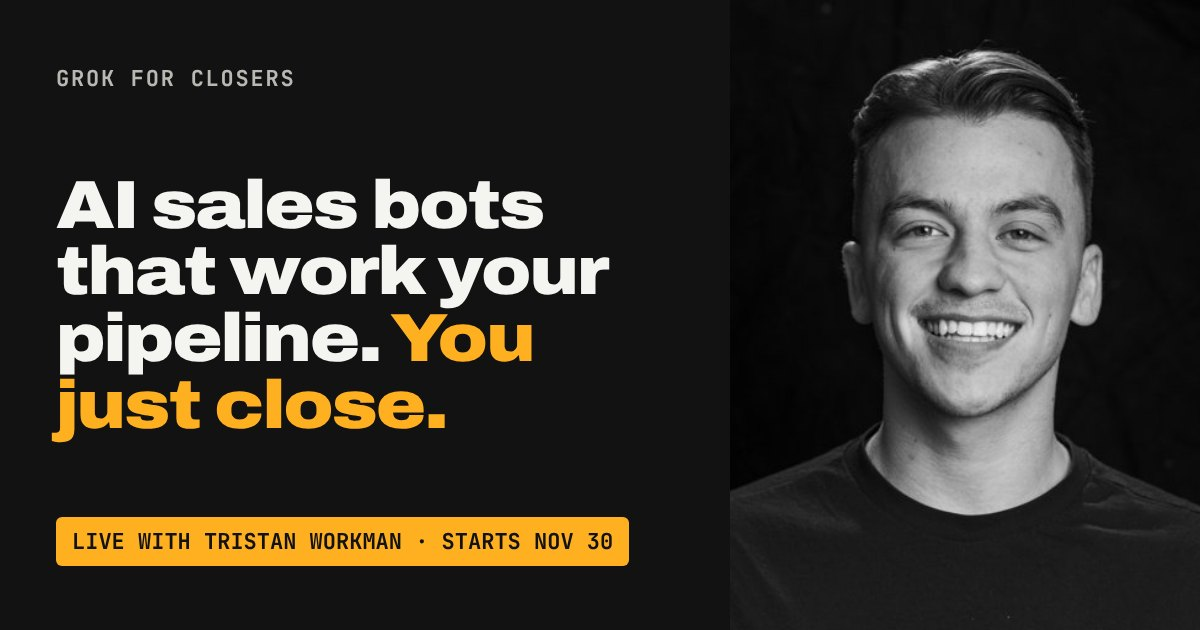
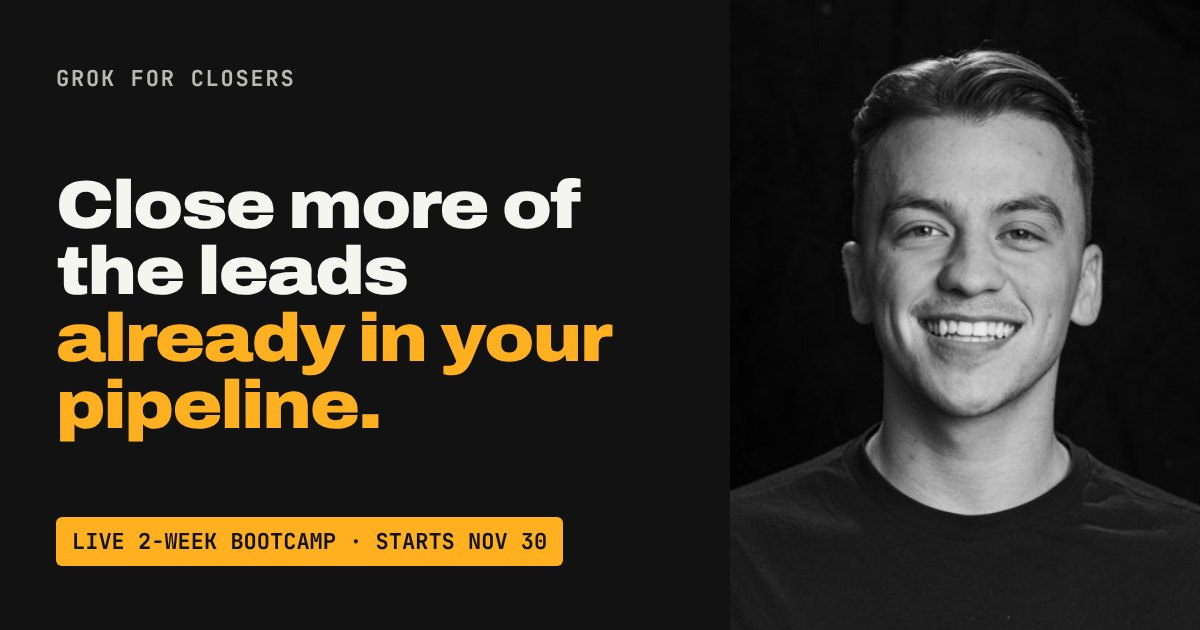
v3: results-first hero, value stack, bonuses, calculator, countdown, scroll-aware sticky CTA
Claude-Session: https://claude.ai/code/session_01B6SyheZNpz3uKChNs5tpkw

Changed region(s): [[0.0308, 0.2714, 0.5242, 0.7238], [0.0925, 0.8143, 0.5242, 0.9048], [0.0308, 0.6937, 0.0617, 0.7238]]

diff --git a/index.html b/index.html
@@ -3,11 +3,11 @@
 <head>
 <meta charset="utf-8">
 <title>Grok for Closers</title>
-<meta name="description" content="Grok for Closers: a live 2-week bootcamp with Tristan Workman. Get AI sales bots that read your calls and prep your follow-ups. You just click send.">
+<meta name="description" content="Close more of the leads already in your pipeline. A live 2-week bootcamp with Tristan Workman: set up AI bots that read your calls and draft every follow-up.">
 <meta property="og:type" content="website">
 <meta property="og:url" content="https://grokforclosers.com/">
-<meta property="og:title" content="Grok for Closers: AI sales bots for high-ticket closers">
-<meta property="og:description" content="A live 2-week bootcamp with Tristan Workman. Bots read your calls and draft your follow-ups. Starts Nov 30.">
+<meta property="og:title" content="Grok for Closers: close more of the leads already in your pipeline">
+<meta property="og:description" content="In 2 weeks, live with Tristan Workman, set up AI bots that read your calls and draft every follow-up. Pays for itself in 90 days or your money back.">
 <meta property="og:image" content="https://grokforclosers.com/og.jpg">
 <meta property="og:image:width" content="1200">
 <meta property="og:image:height" content="630">
@@ -27,8 +27,10 @@ a{color:#121212}a:hover{color:#000}
 summary{cursor:pointer;list-style:none}
 summary::-webkit-details-marker{display:none}
 details[open] .faq-plus{transform:rotate(45deg)}
-.mcta{display:none}
-@media (max-width: 720px){.mcta{display:flex}body{padding-bottom:84px}}
+.mcta{display:flex;position:fixed;left:12px;right:12px;bottom:12px;max-width:560px;margin:0 auto;z-index:50;transform:translateY(160%);transition:transform .25s ease}
+.mcta.show{transform:none}
+@media (max-width: 720px){body{padding-bottom:84px}}
+.calc input,.calc select{font:inherit;font-size:18px;padding:12px;border:1px solid #C9C9C3;border-radius:8px;background:#fff;width:100%;box-sizing:border-box;min-height:48px}
 </style>
 
 <div style="width: 100%; background: #F4F4F1; color: #121212; font-family: 'Public Sans', sans-serif; font-size: 18px; line-height: 1.6">
@@ -38,46 +40,42 @@ details[open] .faq-plus{transform:rotate(45deg)}
 <div style="max-width: 1180px; margin: 0 auto; padding: 14px 24px; display: flex; flex-wrap: wrap; align-items: center; justify-content: space-between; gap: 12px">
 <div style="font-family: 'Archivo', sans-serif; font-weight: 900; font-stretch: 115%; font-size: 20px; letter-spacing: -0.01em">GROK FOR CLOSERS</div>
 <div style="display: flex; flex-wrap: wrap; align-items: center; gap: 18px">
-<span style="font-family: 'JetBrains Mono', monospace; font-size: 13px; color: #B9B9B4">Starts Mon, Nov 30 · Only 25 early-bird spots</span>
-<a href="https://commas.com/checkout/4jyNJgCdUy43nU" style="background: #FFB020; color: #121212; text-decoration: none; font-weight: 700; font-size: 15px; padding: 12px 18px; border-radius: 6px; min-height: 44px; box-sizing: border-box; display: inline-flex; align-items: center">Enroll: $900 with EARLYBIRD</a>
+<span style="font-family: 'JetBrains Mono', monospace; font-size: 13px; color: #B9B9B4"><span class="cd">Starts Mon, Nov 30</span> · 25 early-bird spots</span>
+<a href="https://commas.com/checkout/4jyNJgCdUy43nU" style="background: #FFB020; color: #121212; text-decoration: none; font-weight: 700; font-size: 15px; padding: 12px 18px; border-radius: 6px; min-height: 44px; box-sizing: border-box; display: inline-flex; align-items: center">Save my spot: $900</a>
 </div>
 </div>
 </header>
 
 <!-- HERO -->
 <section style="background: #121212; color: #F4F4F1">
-<div style="max-width: 1180px; margin: 0 auto; padding: 80px 24px 96px; display: flex; flex-direction: column; align-items: center; text-align: center; gap: 28px">
-<div style="display: flex; align-items: center; gap: 12px; padding: 6px 16px 6px 6px; border: 1px solid #34342F; border-radius: 999px"><img src="tristan.jpg" alt="Tristan Workman" style="width: 36px; height: 36px; border-radius: 50%; object-fit: cover"><span style="font-family: 'JetBrains Mono', monospace; font-size: 13px; letter-spacing: 0.08em; text-transform: uppercase; color: #B9B9B4">Live with Tristan Workman · Starts Nov 30</span></div>
-<h1 style="margin: 0; max-width: 1000px; font-family: 'Archivo', sans-serif; font-weight: 900; font-stretch: 112%; font-size: clamp(40px, 6vw, 80px); line-height: 0.98; letter-spacing: -0.025em">Get AI sales bots that work your pipeline for you. <span style="color: #FFB020">You just close.</span></h1>
-<p style="margin: 0; max-width: 760px; font-size: 20px; color: #D2D2CD">We give you our AI bots, built from how top closers work. They read your calls and prep your follow-ups. You just click send.</p>
-
-<!-- INSTRUCTOR PHOTO -->
-<div style="width: 100%; max-width: 960px; margin-top: 12px">
-<div style="position: relative; width: 100%; background: #0B0B0B; border: 1px solid #34342F; border-radius: 12px; overflow: hidden; display: flex; flex-wrap: wrap-reverse; align-items: stretch; text-align: left">
-<div style="flex: 1 1 300px; min-width: 0; padding: clamp(24px, 4vw, 48px); display: flex; flex-direction: column; justify-content: center; gap: 16px">
-<div style="font-family: 'JetBrains Mono', monospace; font-size: 13px; letter-spacing: 0.08em; text-transform: uppercase; color: #A3A39E">Your instructor, live on every session</div>
-<div style="font-family: 'Archivo', sans-serif; font-weight: 900; font-size: clamp(22px, 3vw, 36px); line-height: 1.1">2,000+ calls. $10M collected one-on-one. Live on every session.</div>
-<div style="font-size: 15px; color: #D2D2CD">Tristan Workman</div>
+<div style="max-width: 1180px; margin: 0 auto; padding: 64px 24px 80px; display: grid; grid-template-columns: repeat(auto-fit, minmax(min(460px, 100%), 1fr)); gap: 48px; align-items: center">
+<div style="display: flex; flex-direction: column; gap: 24px; min-width: 0">
+<div style="align-self: flex-start; font-family: 'JetBrains Mono', monospace; font-size: 13px; letter-spacing: 0.08em; text-transform: uppercase; color: #B9B9B4; border: 1px solid #34342F; border-radius: 999px; padding: 8px 14px">Live 2-week bootcamp · <span class="cd">Starts Nov 30</span></div>
+<h1 style="margin: 0; font-family: 'Archivo', sans-serif; font-weight: 900; font-stretch: 112%; font-size: clamp(40px, 5.6vw, 72px); line-height: 0.98; letter-spacing: -0.025em">Close more of the leads <span style="color: #FFB020">already in your pipeline.</span></h1>
+<p style="margin: 0; font-size: 20px; color: #D2D2CD">In 2 weeks, live with Tristan, you set up AI bots that read your calls and draft every follow-up. You click send. If it hasn't paid for itself in 90 days, you get your money back.</p>
+<div style="display: flex; flex-direction: column; gap: 12px; align-items: flex-start">
+<a id="hero-cta" href="https://commas.com/checkout/4jyNJgCdUy43nU" style="background: #FFB020; color: #121212; text-decoration: none; font-weight: 800; font-size: 19px; padding: 20px 30px; border-radius: 8px; display: inline-flex; align-items: center; gap: 12px">Save my spot for $900 <span style="font-weight: 500; text-decoration: line-through; opacity: 0.7">$1,800</span></a>
+<div style="font-size: 14px; color: #B9B9B4">Code <strong style="font-family: 'JetBrains Mono', monospace; color: #F4F4F1">EARLYBIRD</strong> · 25 spots · Starts Nov 30</div>
+<div style="display: flex; align-items: center; gap: 8px; font-size: 14px; color: #D2D2CD"><svg width="18" height="18" viewBox="0 0 24 24" fill="none" stroke="#F4F4F1" stroke-width="2" stroke-linecap="round" stroke-linejoin="round" aria-hidden="true" style="flex: none"><path d="M12 3l8 3v6c0 5-3.5 8-8 9-4.5-1-8-4-8-9V6z"></path><path d="M8.5 12l2.5 2.5L16 9.5"></path></svg>Pays for itself in 90 days or your money back.</div>
 </div>
-<img src="tristan.jpg" alt="Tristan Workman" style="flex: 1 1 300px; min-width: 0; width: 100%; aspect-ratio: 4 / 3; object-fit: cover; object-position: center 30%; display: block">
+<a href="#proof" style="display: flex; flex-wrap: wrap; gap: 10px; text-decoration: none; margin-top: 4px">
+<div style="flex: 1 1 200px; border: 1px solid #2E2E2B; border-radius: 10px; padding: 12px 14px; font-size: 14px; line-height: 1.4; color: #D2D2CD"><span style="color: #F4F4F1; font-weight: 600">"I closed for $25k. Zero objections."</span><br><span style="color: #8A8A84">M.D., bootcamp grad</span></div>
+<div style="flex: 1 1 200px; border: 1px solid #2E2E2B; border-radius: 10px; padding: 12px 14px; font-size: 14px; line-height: 1.4; color: #D2D2CD"><span style="color: #F4F4F1; font-weight: 600">2 deals from follow-up in one day</span><br><span style="color: #8A8A84">Miriam</span></div>
+<div style="flex: 1 1 200px; border: 1px solid #2E2E2B; border-radius: 10px; padding: 12px 14px; font-size: 14px; line-height: 1.4; color: #D2D2CD"><span style="color: #F4F4F1; font-weight: 600">"Boom! Thank you Kevin."</span><br><span style="color: #8A8A84">A student, after his bot booked the call</span></div>
+</a>
 </div>
+<div style="min-width: 0; background: #0B0B0B; border: 1px solid #34342F; border-radius: 16px; overflow: hidden">
+<img src="tristan.jpg" alt="Tristan Workman" style="width: 100%; aspect-ratio: 1 / 1; object-fit: cover; object-position: center 30%; display: block">
+<div style="padding: 20px 24px 24px">
+<div style="font-family: 'Archivo', sans-serif; font-weight: 800; font-size: 20px; line-height: 1.25">"I'm a closer who got tired of losing my evenings to admin."</div>
+<div style="margin-top: 10px; font-size: 14px; color: #A3A39E">Tristan Workman · 2,000+ calls · $10M collected 1:1 · Live on every session</div>
 </div>
-
-<div style="display: flex; flex-direction: column; align-items: center; gap: 10px; margin-top: 8px">
-<a href="https://commas.com/checkout/4jyNJgCdUy43nU" style="background: #FFB020; color: #121212; text-decoration: none; font-weight: 800; font-size: 19px; padding: 20px 34px; border-radius: 8px; display: inline-flex; align-items: center; gap: 12px">Enroll now for $900 <span style="font-weight: 500; text-decoration: line-through; opacity: 0.7">$1,800</span></a>
-<div style="font-size: 14px; color: #B9B9B4">Use code <strong style="font-family: 'JetBrains Mono', monospace; color: #F4F4F1">EARLYBIRD</strong> at checkout · Only 25 spots · Pays-for-itself guarantee</div>
-</div>
-
-<div style="width: 100%; max-width: 960px; margin-top: 36px; padding-top: 28px; border-top: 1px solid #2E2E2B; display: grid; grid-template-columns: repeat(auto-fit, minmax(180px, 1fr)); gap: 20px">
-<div><div style="font-family: 'Archivo', sans-serif; font-weight: 900; font-size: 36px; line-height: 1">2,000+</div><div style="font-size: 14px; color: #B9B9B4">sales calls taken</div></div>
-<div><div style="font-family: 'Archivo', sans-serif; font-weight: 900; font-size: 36px; line-height: 1">$10M</div><div style="font-size: 14px; color: #B9B9B4">collected one-on-one</div></div>
-<div><div style="font-family: 'Archivo', sans-serif; font-weight: 900; font-size: 36px; line-height: 1">750+</div><div style="font-size: 14px; color: #B9B9B4">enrollments closed</div></div>
 </div>
 </div>
 </section>
 
 <!-- TESTIMONIALS -->
-<section style="max-width: 1180px; margin: 0 auto; padding: 88px 24px 40px">
+<section id="proof" style="max-width: 1180px; margin: 0 auto; padding: 88px 24px 40px">
 <div style="font-family: 'JetBrains Mono', monospace; font-size: 13px; letter-spacing: 0.08em; text-transform: uppercase; color: #5A5A55; margin-bottom: 14px">Student results</div>
 <h2 style="margin: 0 0 36px; font-family: 'Archivo', sans-serif; font-weight: 900; font-stretch: 108%; font-size: clamp(30px, 4vw, 48px); line-height: 1.05; letter-spacing: -0.02em; max-width: 760px">They stopped doing the busywork. The bots took it.</h2>
 <div style="font-family: 'JetBrains Mono', monospace; font-size: 13px; letter-spacing: 0.08em; text-transform: uppercase; color: #5A5A55; margin-bottom: 16px">Real screenshots from Tristan's students</div>
@@ -275,15 +273,19 @@ details[open] .faq-plus{transform:rotate(45deg)}
 <section style="background: #FFFFFF; border-top: 1px solid #E2E2DC; border-bottom: 1px solid #E2E2DC">
 <div style="max-width: 1180px; margin: 0 auto; padding: 96px 24px; display: flex; flex-wrap: wrap; gap: 64px">
 <div style="flex: 1 1 480px; min-width: 0">
-<div style="font-family: 'JetBrains Mono', monospace; font-size: 13px; letter-spacing: 0.08em; text-transform: uppercase; color: #5A5A55; margin-bottom: 14px">Everything included</div>
-<h2 style="margin: 0 0 28px; font-family: 'Archivo', sans-serif; font-weight: 900; font-stretch: 108%; font-size: clamp(30px, 3.6vw, 44px); line-height: 1.05; letter-spacing: -0.02em">What you get</h2>
-<div style="display: flex; flex-direction: column">
-<div style="display: flex; gap: 16px; padding: 18px 0; border-top: 1px solid #E2E2DC"><svg width="22" height="22" viewBox="0 0 24 24" fill="none" stroke="#121212" stroke-width="2.5" stroke-linecap="round" stroke-linejoin="round" aria-hidden="true" style="flex: none; margin-top: 3px"><path d="M5 12l5 5L20 7"></path></svg><div><strong>Our AI sales bots</strong><br><span style="color: #5A5A55">The Closer Coach bot and the Call Review bot. They read your calls and draft every follow-up. Yours to keep.</span></div></div>
-<div style="display: flex; gap: 16px; padding: 18px 0; border-top: 1px solid #E2E2DC"><svg width="22" height="22" viewBox="0 0 24 24" fill="none" stroke="#121212" stroke-width="2.5" stroke-linecap="round" stroke-linejoin="round" aria-hidden="true" style="flex: none; margin-top: 3px"><path d="M5 12l5 5L20 7"></path></svg><div><strong>Every workflow, built in</strong><br><span style="color: #5A5A55">End-of-month push, show rate, no-show recovery, same-day follow-up, two-call nurture, CRM next action, weekly nurture, call review and the Sales Dojo.</span></div></div>
-<div style="display: flex; gap: 16px; padding: 18px 0; border-top: 1px solid #E2E2DC"><svg width="22" height="22" viewBox="0 0 24 24" fill="none" stroke="#121212" stroke-width="2.5" stroke-linecap="round" stroke-linejoin="round" aria-hidden="true" style="flex: none; margin-top: 3px"><path d="M5 12l5 5L20 7"></path></svg><div><strong>6 live sessions + office hours</strong><br><span style="color: #5A5A55">Mon, Wed, Fri. Office hours Tue and Thu.</span></div></div>
-<div style="display: flex; gap: 16px; padding: 18px 0; border-top: 1px solid #E2E2DC"><svg width="22" height="22" viewBox="0 0 24 24" fill="none" stroke="#121212" stroke-width="2.5" stroke-linecap="round" stroke-linejoin="round" aria-hidden="true" style="flex: none; margin-top: 3px"><path d="M5 12l5 5L20 7"></path></svg><div><strong>Recordings and lifetime access</strong><br><span style="color: #5A5A55">Miss one? Watch it back.</span></div></div>
-<div style="display: flex; gap: 16px; padding: 18px 0; border-top: 1px solid #E2E2DC; border-bottom: 1px solid #E2E2DC"><svg width="22" height="22" viewBox="0 0 24 24" fill="none" stroke="#121212" stroke-width="2.5" stroke-linecap="round" stroke-linejoin="round" aria-hidden="true" style="flex: none; margin-top: 3px"><path d="M5 12l5 5L20 7"></path></svg><div><strong>A private WhatsApp group</strong><br><span style="color: #5A5A55">Share wins, get unstuck.</span></div></div>
+<div style="font-family: 'JetBrains Mono', monospace; font-size: 13px; letter-spacing: 0.08em; text-transform: uppercase; color: #5A5A55; margin-bottom: 14px">Everything you get for $900</div>
+<h2 style="margin: 0 0 24px; font-family: 'Archivo', sans-serif; font-weight: 900; font-stretch: 108%; font-size: clamp(30px, 3.6vw, 44px); line-height: 1.05; letter-spacing: -0.02em">What you get</h2>
+<div style="display: flex; flex-direction: column; border-bottom: 1px solid #E2E2DC">
+<div style="display: flex; gap: 14px; padding: 16px 0; border-top: 1px solid #E2E2DC"><svg width="22" height="22" viewBox="0 0 24 24" fill="none" stroke="#121212" stroke-width="2.5" stroke-linecap="round" stroke-linejoin="round" aria-hidden="true" style="flex: none; margin-top: 3px"><path d="M5 12l5 5L20 7"></path></svg><div><strong>6 live sessions with Tristan</strong><br><span style="color: #5A5A55">Each one ends with something you send that day. Your first email goes out in session one.</span></div></div>
+<div style="display: flex; gap: 14px; padding: 16px 0; border-top: 1px solid #E2E2DC"><svg width="22" height="22" viewBox="0 0 24 24" fill="none" stroke="#121212" stroke-width="2.5" stroke-linecap="round" stroke-linejoin="round" aria-hidden="true" style="flex: none; margin-top: 3px"><path d="M5 12l5 5L20 7"></path></svg><div><strong>Office hours, Tuesday and Thursday</strong><br><span style="color: #5A5A55">Bring a stuck deal or a bot that isn't working.</span></div></div>
+<div style="display: flex; gap: 14px; padding: 16px 0; border-top: 1px solid #E2E2DC"><svg width="22" height="22" viewBox="0 0 24 24" fill="none" stroke="#121212" stroke-width="2.5" stroke-linecap="round" stroke-linejoin="round" aria-hidden="true" style="flex: none; margin-top: 3px"><path d="M5 12l5 5L20 7"></path></svg><div><strong>The Closer Coach bot</strong><br><span style="color: #5A5A55">Reads your calls and drafts follow-ups, confirmations and nurture emails. Yours to keep.</span></div></div>
+<div style="display: flex; gap: 14px; padding: 16px 0; border-top: 1px solid #E2E2DC"><svg width="22" height="22" viewBox="0 0 24 24" fill="none" stroke="#121212" stroke-width="2.5" stroke-linecap="round" stroke-linejoin="round" aria-hidden="true" style="flex: none; margin-top: 3px"><path d="M5 12l5 5L20 7"></path></svg><div><strong>The Call Review bot and the Sales Dojo</strong><br><span style="color: #5A5A55">Scores your calls, names one fix, and runs voice role play on it.</span></div></div>
+<div style="display: flex; gap: 14px; padding: 16px 0; border-top: 1px solid #E2E2DC"><svg width="22" height="22" viewBox="0 0 24 24" fill="none" stroke="#121212" stroke-width="2.5" stroke-linecap="round" stroke-linejoin="round" aria-hidden="true" style="flex: none; margin-top: 3px"><path d="M5 12l5 5L20 7"></path></svg><div><strong>Recordings and a private WhatsApp group</strong><br><span style="color: #5A5A55">Watch any session again. Get answers between sessions.</span></div></div>
+<div style="display: flex; gap: 14px; padding: 16px 0; border-top: 1px solid #E2E2DC"><span style="flex: none; font-family: 'JetBrains Mono', monospace; font-weight: 700; font-size: 11px; background: #FFB020; color: #121212; padding: 3px 7px; border-radius: 4px; height: fit-content; margin-top: 3px">BONUS</span><div><strong>The “which bot when” cheat sheet</strong><br><span style="color: #5A5A55">The right bot for every moment in your pipeline, on one page.</span></div></div>
+<div style="display: flex; gap: 14px; padding: 16px 0; border-top: 1px solid #E2E2DC"><span style="flex: none; font-family: 'JetBrains Mono', monospace; font-weight: 700; font-size: 11px; background: #FFB020; color: #121212; padding: 3px 7px; border-radius: 4px; height: fit-content; margin-top: 3px">BONUS</span><div><strong>Tristan's end-of-month email template</strong><br><span style="color: #5A5A55">The email he sends in the last week of every month.</span></div></div>
+<div style="display: flex; gap: 14px; padding: 16px 0; border-top: 1px solid #E2E2DC"><span style="flex: none; font-family: 'JetBrains Mono', monospace; font-weight: 700; font-size: 11px; background: #FFB020; color: #121212; padding: 3px 7px; border-radius: 4px; height: fit-content; margin-top: 3px">BONUS</span><div><strong>The objection rapid-fire drill</strong><br><span style="color: #5A5A55">Fast reps on the objections you hear most, before your next call.</span></div></div>
 </div>
+<div style="margin-top: 24px; background: #121212; color: #F4F4F1; border-radius: 12px; padding: 20px 24px; font-size: 16px">Tristan's 1:1 coaching runs <strong>$8,000</strong>. This is his system, live, for <strong style="color: #FFB020">$900</strong>.</div>
 </div>
 <div style="flex: 1 1 400px; min-width: 0; display: flex; flex-direction: column; gap: 24px">
 <img src="tristan.jpg" alt="Tristan Workman" style="width: 100%; aspect-ratio: 4 / 3; object-fit: cover; object-position: center 30%; border-radius: 12px; display: block">
@@ -299,8 +301,17 @@ details[open] .faq-plus{transform:rotate(45deg)}
 <div style="display: flex; flex-wrap: wrap; gap: 48px; align-items: center">
 <div style="flex: 1 1 420px; min-width: 0">
 <div style="font-family: 'JetBrains Mono', monospace; font-size: 13px; letter-spacing: 0.08em; text-transform: uppercase; color: #5A5A55; margin-bottom: 14px">Price</div>
-<h2 style="margin: 0 0 20px; font-family: 'Archivo', sans-serif; font-weight: 900; font-stretch: 108%; font-size: clamp(30px, 4vw, 48px); line-height: 1.05; letter-spacing: -0.02em">One extra deal pays for this several times over.</h2>
-<p style="margin: 0; color: #3A3A36">If your average commission is over $900, one extra close covers the bootcamp.</p>
+<h2 style="margin: 0 0 20px; font-family: 'Archivo', sans-serif; font-weight: 900; font-stretch: 108%; font-size: clamp(30px, 4vw, 48px); line-height: 1.05; letter-spacing: -0.02em">What one extra close is worth to you.</h2>
+<p style="margin: 0 0 24px; color: #3A3A36">Put in your average commission and see when the bootcamp pays for itself.</p>
+<div class="calc" style="background: #FFFFFF; border: 1px solid #E2E2DC; border-radius: 12px; padding: 24px; display: grid; grid-template-columns: repeat(auto-fit, minmax(min(180px, 100%), 1fr)); gap: 16px">
+<label style="display: flex; flex-direction: column; gap: 6px; font-size: 14px; font-weight: 600">Your average commission ($)<input id="c-comm" type="number" min="0" step="50" value="1500" inputmode="numeric"></label>
+<label style="display: flex; flex-direction: column; gap: 6px; font-size: 14px; font-weight: 600">Extra closes a month<select id="c-n"><option value="1" selected>1</option><option value="2">2</option><option value="3">3</option><option value="4">4</option></select></label>
+<div style="grid-column: 1 / -1; border-top: 1px solid #E2E2DC; padding-top: 16px">
+<div style="font-size: 14px; color: #5A5A55">Extra commission in 90 days</div>
+<div id="c-out" style="font-family: 'Archivo', sans-serif; font-weight: 900; font-size: 44px; line-height: 1.1">$4,500</div>
+<div id="c-pay" style="font-size: 15px; color: #3A3A36">The bootcamp pays for itself on your first extra close.</div>
+</div>
+</div>
 </div>
 <div style="flex: 1 1 420px; min-width: 0; background: #121212; color: #F4F4F1; border-radius: 16px; padding: clamp(24px, 5vw, 40px)">
 <div style="display: inline-block; background: #FFB020; color: #121212; font-family: 'JetBrains Mono', monospace; font-weight: 700; font-size: 13px; padding: 5px 10px; border-radius: 4px">EARLY BIRD · ONLY 25 SPOTS</div>
@@ -309,14 +320,14 @@ details[open] .faq-plus{transform:rotate(45deg)}
 <span style="font-size: 24px; color: #A3A39E; text-decoration: line-through">$1,800</span>
 </div>
 <div style="margin: 14px 0 6px; display: flex; flex-wrap: wrap; align-items: center; gap: 10px; font-size: 15px; color: #D2D2CD">Enter code <span style="font-family: 'JetBrains Mono', monospace; font-weight: 700; font-size: 16px; color: #121212; background: #F4F4F1; padding: 4px 10px; border-radius: 4px; letter-spacing: 0.06em">EARLYBIRD</span> at checkout for 50% off.</div>
-<div style="color: #B9B9B4; font-size: 15px; margin-bottom: 28px">The code works for the first 25 buyers. After that, it's $1,800. Starts Monday, November 30.</div>
+<div style="color: #B9B9B4; font-size: 15px; margin-bottom: 28px">The code works for the first 25 buyers. After that, it's $1,800. <span class="cd">Starts Monday, November 30</span>.</div>
 <div style="display: flex; flex-direction: column; gap: 10px; font-size: 16px; margin-bottom: 32px">
-<div>✓&nbsp; Our AI sales bots, every workflow built in</div>
 <div>✓&nbsp; 6 live sessions + office hours</div>
-<div>✓&nbsp; Recordings, lifetime access, community</div>
+<div>✓&nbsp; Closer Coach bot, Call Review bot, Sales Dojo</div>
+<div>✓&nbsp; 3 bonuses, recordings, WhatsApp group</div>
 
 </div>
-<a href="https://commas.com/checkout/4jyNJgCdUy43nU" style="display: flex; justify-content: center; background: #FFB020; color: #121212; text-decoration: none; font-weight: 800; font-size: 19px; padding: 20px; border-radius: 8px">Enroll now</a>
+<a href="https://commas.com/checkout/4jyNJgCdUy43nU" style="display: flex; justify-content: center; background: #FFB020; color: #121212; text-decoration: none; font-weight: 800; font-size: 19px; padding: 20px; border-radius: 8px">Save my spot for $900</a>
 <div style="margin-top: 24px; padding-top: 24px; border-top: 1px solid #2E2E2B; display: flex; gap: 14px">
 <svg width="26" height="26" viewBox="0 0 24 24" fill="none" stroke="#F4F4F1" stroke-width="2" stroke-linecap="round" stroke-linejoin="round" aria-hidden="true" style="flex: none"><path d="M12 3l8 3v6c0 5-3.5 8-8 9-4.5-1-8-4-8-9V6z"></path><path d="M8.5 12l2.5 2.5L16 9.5"></path></svg>
 <div style="font-size: 15px; color: #D2D2CD"><strong style="color: #F4F4F1">The pays-for-itself guarantee.</strong> Do the work: attend the sessions, install the bots and use them. If it hasn't paid you back within 90 days of the start, email us and we'll refund you in full.</div>
@@ -330,6 +341,9 @@ details[open] .faq-plus{transform:rotate(45deg)}
 <h2 style="margin: 0 0 28px; font-family: 'Archivo', sans-serif; font-weight: 900; font-stretch: 108%; font-size: clamp(30px, 4vw, 48px); line-height: 1.05; letter-spacing: -0.02em">Questions you might have</h2>
 <details style="border-top: 1px solid #D6D6D0; padding: 22px 0"><summary style="display: flex; justify-content: space-between; gap: 16px; font-weight: 700; font-size: 19px">What else do I need?<span class="faq-plus" style="font-size: 24px; line-height: 1">+</span></summary><p style="margin: 12px 0 0; color: #3A3A36">Your own paid Grok plan (Grok Bot runs $30 a month). The bots connect to the tools you already use, like your email, calendar, call notes and CRM.</p></details>
 <details style="border-top: 1px solid #D6D6D0; padding: 22px 0"><summary style="display: flex; justify-content: space-between; gap: 16px; font-weight: 700; font-size: 19px">Is it hard to set up?<span class="faq-plus" style="font-size: 24px; line-height: 1">+</span></summary><p style="margin: 12px 0 0; color: #3A3A36">No. One link adds the bot to your Grok Bot account, and we connect your tools together in session one. If you can write an email, you can do this.</p></details>
+<details style="border-top: 1px solid #D6D6D0; padding: 22px 0"><summary style="display: flex; justify-content: space-between; gap: 16px; font-weight: 700; font-size: 19px">I'm not technical. Can I do this?<span class="faq-plus" style="font-size: 24px; line-height: 1">+</span></summary><p style="margin: 12px 0 0; color: #3A3A36">Yes. We set up the bots together, live, in session one. If you can write an email, you can run them.</p></details>
+<details style="border-top: 1px solid #D6D6D0; padding: 22px 0"><summary style="display: flex; justify-content: space-between; gap: 16px; font-weight: 700; font-size: 19px">My company limits AI tools. Is that a problem?<span class="faq-plus" style="font-size: 24px; line-height: 1">+</span></summary><p style="margin: 12px 0 0; color: #3A3A36">The bots draft. You review and send from your own email, the same way you send anything else. Check your company's policy on connecting accounts before session one.</p></details>
+<details style="border-top: 1px solid #D6D6D0; padding: 22px 0"><summary style="display: flex; justify-content: space-between; gap: 16px; font-weight: 700; font-size: 19px">Do I need a CRM?<span class="faq-plus" style="font-size: 24px; line-height: 1">+</span></summary><p style="margin: 12px 0 0; color: #3A3A36">No. You can start by pasting your offer doc. Connecting a CRM is optional and adds the “who do I chase today” list.</p></details>
 <details style="border-top: 1px solid #D6D6D0; padding: 22px 0"><summary style="display: flex; justify-content: space-between; gap: 16px; font-weight: 700; font-size: 19px">Will this replace me?<span class="faq-plus" style="font-size: 24px; line-height: 1">+</span></summary><p style="margin: 12px 0 0; color: #3A3A36">No. It replaces the unpaid parts of the job. You still take the calls.</p></details>
 <details style="border-top: 1px solid #D6D6D0; padding: 22px 0"><summary style="display: flex; justify-content: space-between; gap: 16px; font-weight: 700; font-size: 19px">How much time does this take?<span class="faq-plus" style="font-size: 24px; line-height: 1">+</span></summary><p style="margin: 12px 0 0; color: #3A3A36">Six one-hour live sessions over two weeks, plus 15 to 30 minutes of pre-work before each. Office hours run Tuesday and Thursday.</p></details>
 <details style="border-top: 1px solid #D6D6D0; padding: 22px 0"><summary style="display: flex; justify-content: space-between; gap: 16px; font-weight: 700; font-size: 19px">What if I can't make a session live?<span class="faq-plus" style="font-size: 24px; line-height: 1">+</span></summary><p style="margin: 12px 0 0; color: #3A3A36">Every session is recorded, and you keep access to the course after it ends.</p></details>
@@ -345,17 +359,18 @@ details[open] .faq-plus{transform:rotate(45deg)}
 <div style="max-width: 1180px; margin: 0 auto; padding: 96px 24px; display: flex; flex-wrap: wrap; gap: 56px; align-items: center">
 <div style="flex: 1 1 440px; min-width: 0">
 <h2 style="margin: 0 0 20px; font-family: 'Archivo', sans-serif; font-weight: 900; font-stretch: 110%; font-size: clamp(34px, 4.6vw, 60px); line-height: 1; letter-spacing: -0.025em">Stop doing admin. <span style="color: #FFB020">Start closing.</span></h2>
-<p style="margin: 0 0 20px; color: #D2D2CD">25 early-bird spots at $900. We start Monday, November 30.</p>
+<p style="margin: 0 0 20px; color: #D2D2CD">25 early-bird spots at $900. <span class="cd">We start Monday, November 30</span>.</p>
 <div style="display: flex; align-items: center; gap: 14px; margin-top: 28px"><img src="tristan.jpg" alt="Tristan Workman" style="width: 56px; height: 56px; border-radius: 50%; object-fit: cover"><div style="font-size: 15px; line-height: 1.4"><strong>Tristan Workman</strong><br><span style="color: #A3A39E">Your instructor · $10M collected 1:1</span></div></div>
 </div>
 <div style="flex: 1 1 440px; min-width: 0; background: #F4F4F1; color: #121212; border-radius: 16px; padding: clamp(24px, 5vw, 32px); display: flex; flex-direction: column; gap: 18px">
 <div style="font-family: 'JetBrains Mono', monospace; font-weight: 700; font-size: 13px; color: #5A5A55">GROK FOR CLOSERS · STARTS MON, NOV 30</div>
 <div style="display: flex; flex-wrap: wrap; align-items: baseline; gap: 4px 14px"><span style="font-family: 'Archivo', sans-serif; font-weight: 900; font-size: 64px; line-height: 1; letter-spacing: -0.03em">$900</span><span style="font-size: 20px; color: #5A5A55; text-decoration: line-through">$1,800</span></div>
 <div style="display: flex; flex-wrap: wrap; align-items: center; gap: 10px; font-size: 15px">Code <span style="font-family: 'JetBrains Mono', monospace; font-weight: 700; color: #F4F4F1; background: #121212; padding: 4px 10px; border-radius: 4px; letter-spacing: 0.06em">EARLYBIRD</span> · first 25 buyers only</div>
-<a href="https://commas.com/checkout/4jyNJgCdUy43nU" style="display: flex; justify-content: center; font-weight: 800; font-size: 18px; background: #121212; color: #F4F4F1; text-decoration: none; border-radius: 8px; padding: 18px">Enroll now</a>
-<div style="display: flex; gap: 12px; font-size: 14px; color: #3A3A36"><svg width="22" height="22" viewBox="0 0 24 24" fill="none" stroke="#121212" stroke-width="2" stroke-linecap="round" stroke-linejoin="round" aria-hidden="true" style="flex: none"><path d="M12 3l8 3v6c0 5-3.5 8-8 9-4.5-1-8-4-8-9V6z"></path><path d="M8.5 12l2.5 2.5L16 9.5"></path></svg><span>Do the work. If it hasn't paid you back within 90 days of the start, full refund.</span></div>
+<a href="https://commas.com/checkout/4jyNJgCdUy43nU" style="display: flex; justify-content: center; font-weight: 800; font-size: 18px; background: #121212; color: #F4F4F1; text-decoration: none; border-radius: 8px; padding: 18px">Save my spot</a>
+<div style="display: flex; gap: 12px; font-size: 14px; color: #3A3A36"><svg width="22" height="22" viewBox="0 0 24 24" fill="none" stroke="#121212" stroke-width="2" stroke-linecap="round" stroke-linejoin="round" aria-hidden="true" style="flex: none"><path d="M12 3l8 3v6c0 5-3.5 8-8 9-4.5-1-8-4-8-9V6z"></path><path d="M8.5 12l2.5 2.5L16 9.5"></path></svg><span>Pays for itself in 90 days or your money back.</span></div>
 </div>
 </div>
+<div style="max-width: 1180px; margin: 0 auto; padding: 0 24px 40px; font-size: 15px; color: #A3A39E">Not ready? <a href="[EEC SIGNUP LINK]" style="color: #F4F4F1">Get the free 1% Closer email course.</a></div>
 <footer style="border-top: 1px solid #2A2A28">
 <div style="max-width: 1180px; margin: 0 auto; padding: 24px; display: flex; flex-wrap: wrap; justify-content: space-between; gap: 12px; font-size: 14px; color: #A3A39E">
 <span>© 2026 Starforge Sales LLC · Grok for Closers · grokforclosers.com</span>
@@ -365,9 +380,24 @@ details[open] .faq-plus{transform:rotate(45deg)}
 </footer>
 </section>
 
-<a class="mcta" href="https://commas.com/checkout/4jyNJgCdUy43nU" style="position: fixed; left: 12px; right: 12px; bottom: 12px; z-index: 50; align-items: center; justify-content: space-between; gap: 12px; background: #121212; color: #F4F4F1; text-decoration: none; border: 1px solid #34342F; border-radius: 12px; padding: 10px 10px 10px 18px; box-shadow: 0 8px 24px rgba(0,0,0,0.35)"><span style="font-size: 14px; line-height: 1.3"><strong style="font-size: 16px">$900</strong> with <span style="font-family: 'JetBrains Mono', monospace; font-weight: 700">EARLYBIRD</span><br><span style="color: #B9B9B4">25 spots · Starts Nov 30</span></span><span style="background: #FFB020; color: #121212; font-weight: 800; font-size: 16px; padding: 12px 20px; border-radius: 8px">Enroll</span></a>
+<a class="mcta" href="https://commas.com/checkout/4jyNJgCdUy43nU" style="align-items: center; justify-content: space-between; gap: 12px; background: #121212; color: #F4F4F1; text-decoration: none; border: 1px solid #34342F; border-radius: 12px; padding: 10px 10px 10px 18px; box-shadow: 0 8px 24px rgba(0,0,0,0.35)"><span style="font-size: 14px; line-height: 1.3"><strong style="font-size: 16px">$900</strong> with <span style="font-family: 'JetBrains Mono', monospace; font-weight: 700">EARLYBIRD</span><br><span style="color: #B9B9B4">90-day money-back guarantee</span></span><span style="background: #FFB020; color: #121212; font-weight: 800; font-size: 16px; padding: 12px 18px; border-radius: 8px; white-space: nowrap; flex: none">Save my spot</span></a>
 </div>
 
 
+<script>
+(function(){
+var start=new Date('2026-11-30T00:00:00-05:00');
+function cd(){var ms=start-new Date();var t;if(ms<=0){t='Live now';}else{var d=Math.floor(ms/864e5),h=Math.floor(ms%864e5/36e5);t='Starts in '+d+' day'+(d===1?'':'s')+', '+h+' hr'+(h===1?'':'s');}
+document.querySelectorAll('.cd').forEach(function(e){e.textContent=t;});}
+cd();setInterval(cd,60000);
+var bar=document.querySelector('.mcta'),hero=document.getElementById('hero-cta'),end=document.getElementById('claim'),hv=true,ev=false;
+if('IntersectionObserver' in window){var o=new IntersectionObserver(function(es){es.forEach(function(e){if(e.target===hero)hv=e.isIntersecting;else ev=e.isIntersecting;});bar.classList.toggle('show',!hv&&!ev);});o.observe(hero);o.observe(end);}else{bar.classList.add('show');}
+var c=document.getElementById('c-comm'),n=document.getElementById('c-n'),out=document.getElementById('c-out'),pay=document.getElementById('c-pay');
+function calc(){var v=Math.max(0,parseFloat(c.value)||0),k=parseInt(n.value,10);out.textContent='$'+Math.round(v*k*3).toLocaleString('en-US');
+if(v<=0){pay.textContent='Enter your average commission.';return;}var deals=Math.ceil(900/v);
+pay.textContent=deals===1?'The bootcamp pays for itself on your first extra close.':'The bootcamp pays for itself after '+deals+' extra closes.';}
+c.addEventListener('input',calc);n.addEventListener('change',calc);calc();
+})();
+</script>
 </body>
 </html>
